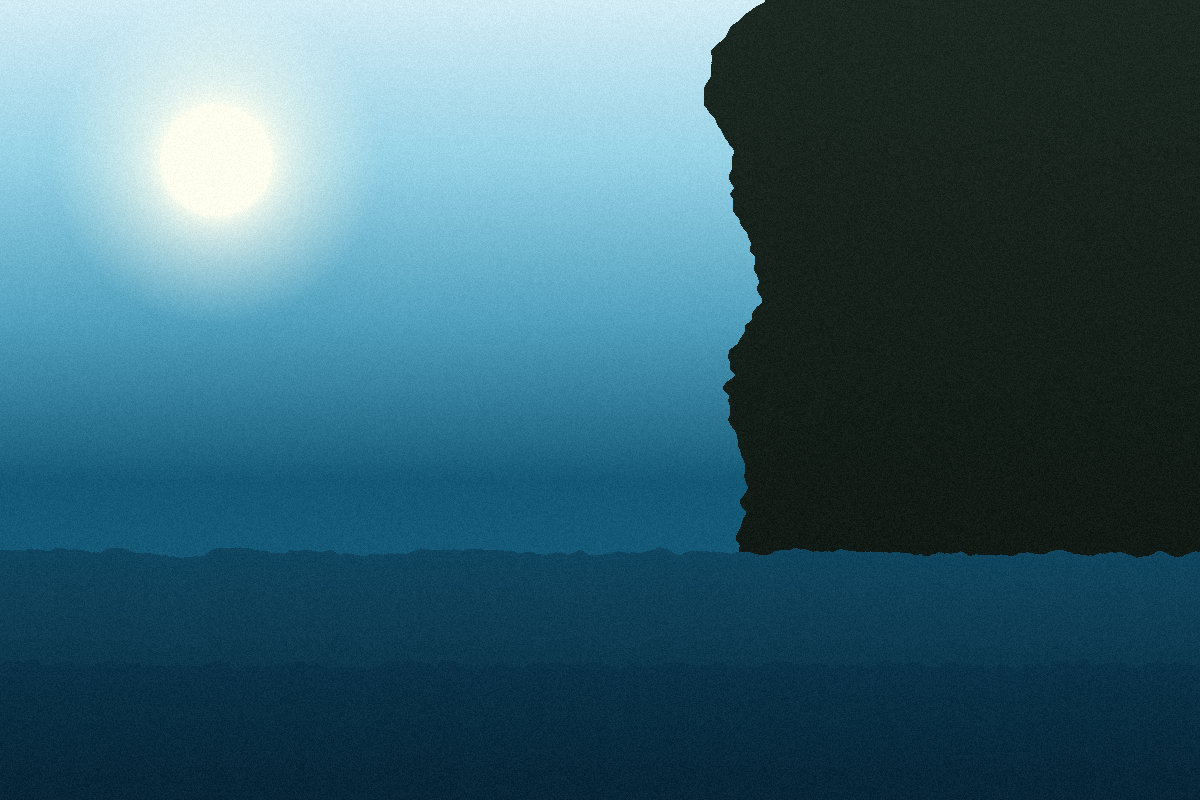
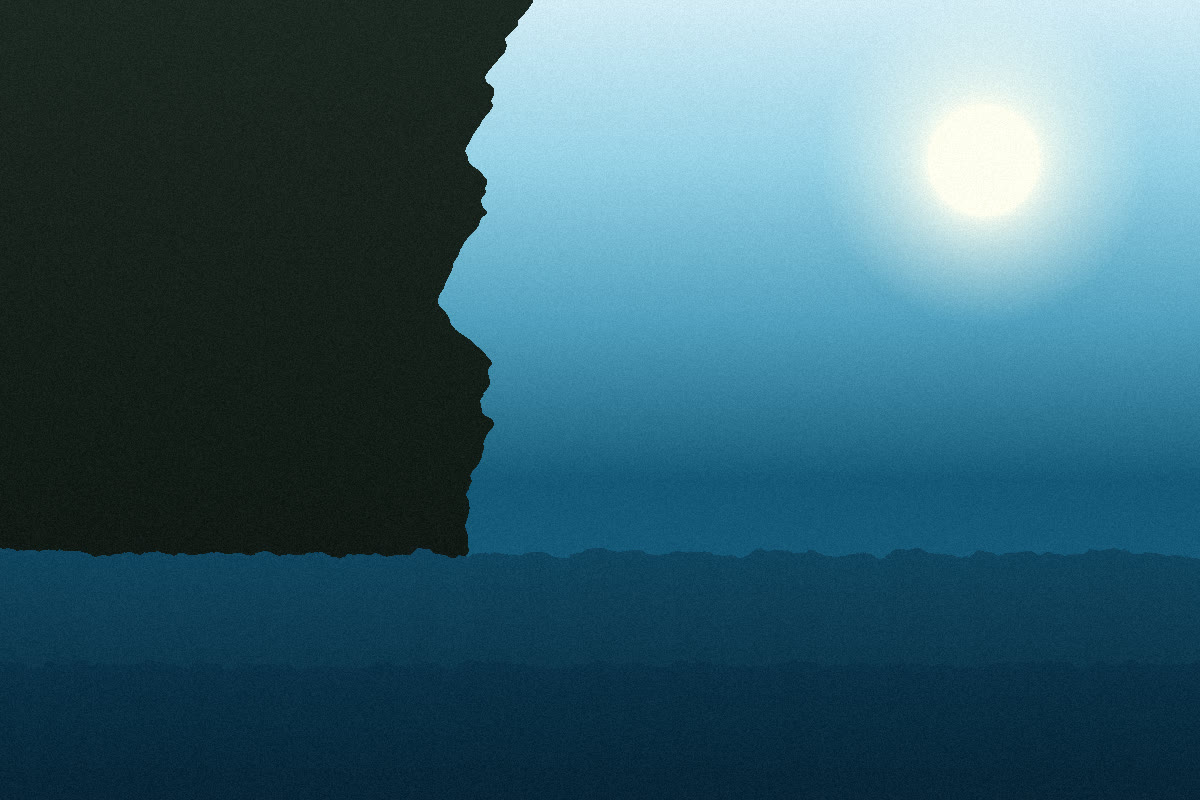
Dark-mode badges, and a 'never registered' sample that really isn't
The AI-generated, agent and C2PA badges used fixed light colours, so they
showed as pale pills in dark mode; they now use theme tokens.

A test registration had matched the old 'never registered' sample, so
/verify showed a creator under a caption saying nobody registered it. The
new sample is the sea scene (seed 101) mirrored: 23 bits from the nearest
of 559 records, and NOT_FOUND on the live API.

diff --git a/apps/web/app/components/Result.tsx b/apps/web/app/components/Result.tsx
@@ -183,7 +183,7 @@ export function MadeWith({ manifest, agent }: {
   const ai = kind === 'trainedAlgorithmicMedia';
   return (
     <p className="mt-3 inline-flex items-center gap-2 rounded-full px-3 py-1 text-sm"
-       style={{ background: ai ? '#f1ecfb' : 'var(--brand-soft)', color: ai ? '#5b3fa0' : 'var(--brand)' }}>
+       style={{ background: ai ? 'var(--ai-surface)' : 'var(--brand-soft)', color: ai ? 'var(--ai-ink)' : 'var(--brand)' }}>
       {ai ? '✦' : '●'} {label}
       <span style={{ color: 'var(--ink-faint)' }}>&middot; declared and signed by the creator</span>
     </p>
@@ -201,7 +201,7 @@ export function SourceCredential({ source }: { source?: SourceCredentialAssertio
   const ok = source.validation !== 'Invalid';
   return (
     <p className="mt-2 flex flex-wrap items-center gap-x-2 gap-y-1 rounded-2xl px-3 py-1.5 text-sm w-fit"
-       style={ok ? { background: '#eaf1fb', color: '#1f4f8a' } : { background: 'var(--accent-surface)', color: 'var(--accent)' }}>
+       style={ok ? { background: 'var(--c2pa-surface)', color: 'var(--c2pa-ink)' } : { background: 'var(--accent-surface)', color: 'var(--accent)' }}>
       <span>&#9670; Original Content Credentials: signed by <strong>{credentialName(source)}</strong>{source.tool ? ` (${source.tool})` : ''}</span>
       <span style={{ color: 'var(--ink-faint)' }}>
         &middot; C2PA {source.validation === 'Trusted' ? 'trusted' : ok ? 'valid' : 'not valid'} at registration{when ? `, signed ${when}` : ''}
@@ -219,7 +219,7 @@ function AgentBadge({ agent }: { agent: { agentId: string; name?: string; verifi
   const who = agent.name ? `${agent.name}` : `agent #${agent.agentId}`;
   return (
     <p className="mt-3 inline-flex flex-wrap items-center gap-x-2 gap-y-1 rounded-2xl px-3 py-1.5 text-sm"
-       style={agent.verified ? { background: '#f1ecfb', color: '#5b3fa0' } : { background: 'var(--accent-surface)', color: 'var(--accent)' }}>
+       style={agent.verified ? { background: 'var(--ai-surface)', color: 'var(--ai-ink)' } : { background: 'var(--accent-surface)', color: 'var(--accent)' }}>
       <span>✦ AI-generated by <strong>{who}</strong></span>
       <a href={`https://testnet.monadscan.com/nft/0x8004A818BFB912233c491871b3d84c89A494BD9e/${agent.agentId}`} target="_blank" rel="noreferrer"
          className="underline underline-offset-2" style={{ color: 'inherit' }}>

diff --git a/apps/web/app/globals.css b/apps/web/app/globals.css
@@ -25,6 +25,12 @@
   --brand-hover: #17493c;
   --brand-soft: #eef5f2;
 
+  /* Badges: AI-generated (violet) and an original C2PA credential (blue). */
+  --ai-surface: #f1ecfb;
+  --ai-ink: #5b3fa0;
+  --c2pa-surface: #eaf1fb;
+  --c2pa-ink: #1f4f8a;
+
   --serif: ui-serif, "Iowan Old Style", "Palatino Linotype", Palatino, Georgia, serif;
   --sans: ui-sans-serif, -apple-system, "Segoe UI", Inter, system-ui, sans-serif;
 }
@@ -44,6 +50,10 @@
     --brand: #6fd8b6;
     --brand-hover: #8ee5c8;
     --brand-soft: #14231f;
+    --ai-surface: #221b33;
+    --ai-ink: #c4b1f6;
+    --c2pa-surface: #15202e;
+    --c2pa-ink: #9dc3f2;
   }
 }
 
